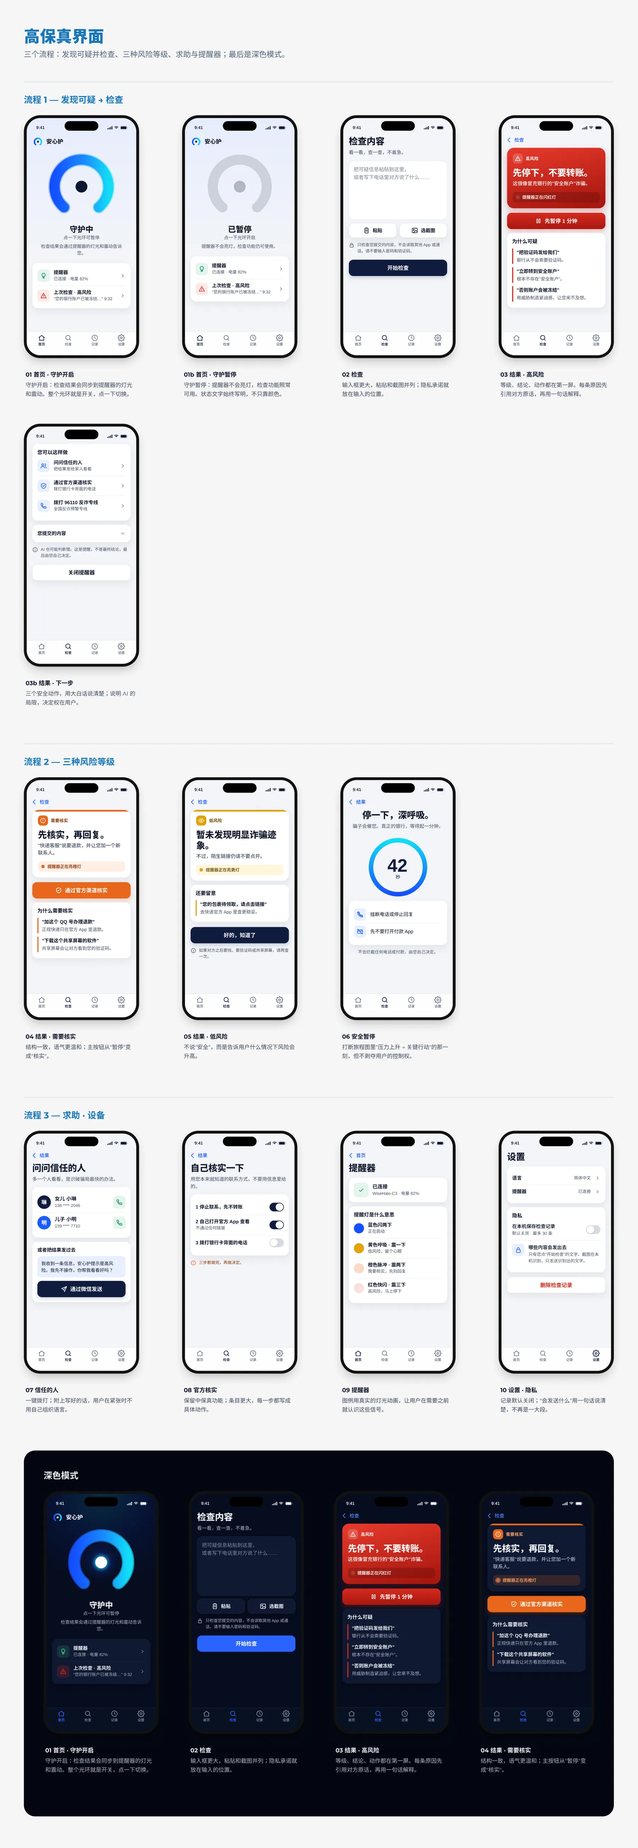
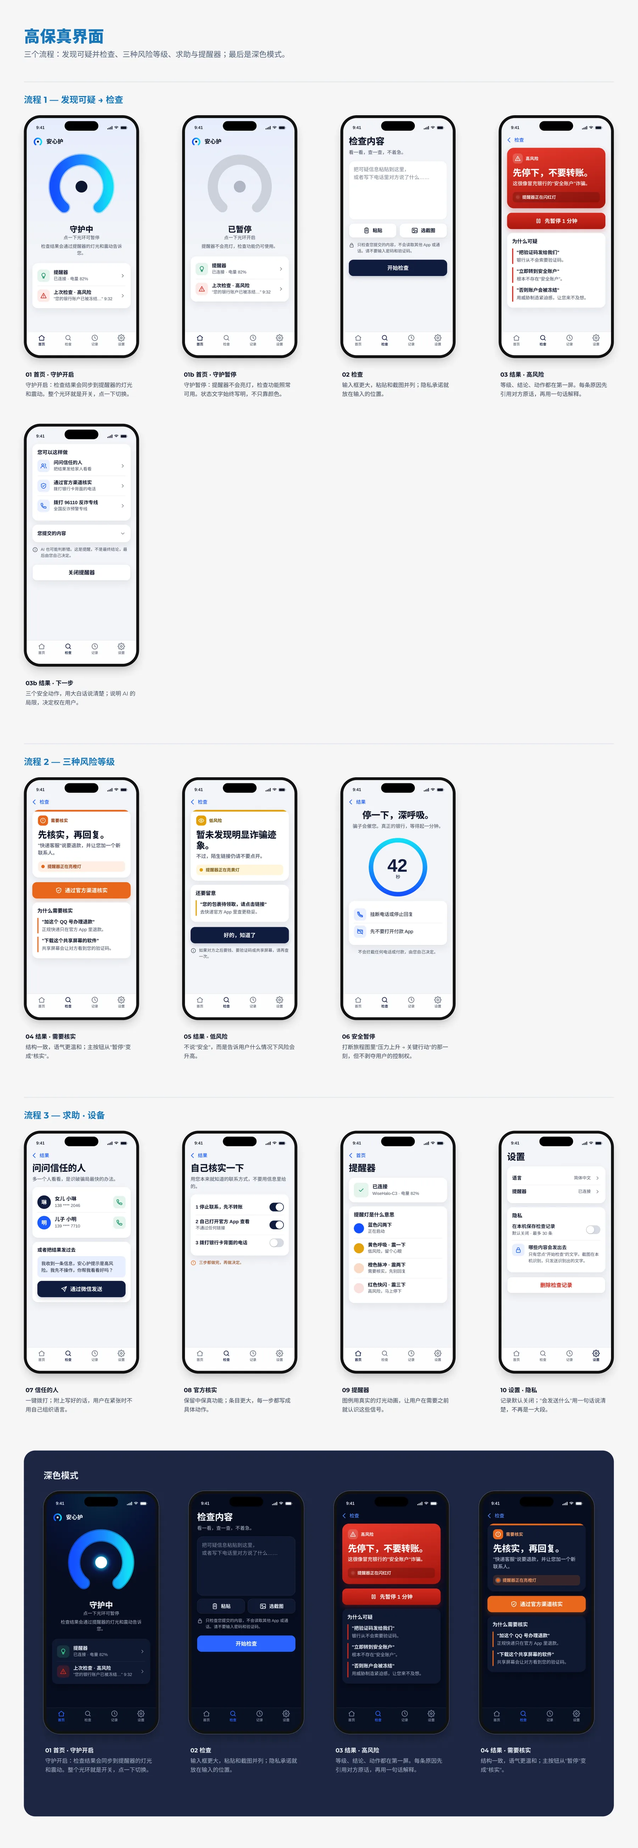
WiseHalo: lighter dark-mode panel and outlined phones in hi-fi board (figs 30/31)

Changed region(s): [[0.0311, 0.7772, 0.9644, 0.9948]]

diff --git a/works/wisehalo.html b/works/wisehalo.html
@@ -33,7 +33,7 @@ try{if(!sessionStorage.getItem('wz-loaded')&&!matchMedia('(prefers-reduced-motio
 <main class="project">
   <section class="meta"><div class="m-row"><span><span class="l-zh" lang="zh-Hans-CN">项目类型</span><span class="l-en" lang="en">Project type</span></span><span class="span2"><span class="l-zh" lang="zh-Hans-CN">AI + IOT 硕士毕业设计项目</span><span class="l-en" lang="en">AI + IoT MA thesis project</span></span></div><div class="m-row"><span><span class="l-zh" lang="zh-Hans-CN">项目名称</span><span class="l-en" lang="en">Project name</span></span><span class="span2"><span class="l-zh" lang="zh-Hans-CN">WiseHalo｜AI 防诈骗风险提示系统</span><span class="l-en" lang="en">WiseHalo — Making Hidden Scam Systems Visible</span></span></div><div class="m-row"><span><span class="l-zh" lang="zh-Hans-CN">分类</span><span class="l-en" lang="en">Category</span></span><span class="span2"><span class="tag">[<span class="l-zh" lang="zh-Hans-CN">AI</span><span class="l-en" lang="en">AI</span>]</span><span class="tag">[<span class="l-zh" lang="zh-Hans-CN">交互设计</span><span class="l-en" lang="en">Interaction design</span>]</span><span class="tag">[<span class="l-zh" lang="zh-Hans-CN">IOT</span><span class="l-en" lang="en">IoT</span>]</span><span class="tag">[<span class="l-zh" lang="zh-Hans-CN">适老化</span><span class="l-en" lang="en">Age-inclusive</span>]</span></span></div><div class="m-row"><span><span class="l-zh" lang="zh-Hans-CN">时间</span><span class="l-en" lang="en">Date</span></span><span class="span2">11.2026</span></div></section>
   <div class="p-grid">
-    <div class="p-main"><figure class="fig"><img src="../images/wisehalo/00-hero.webp?v=1794632484" width="1800" height="1012" alt=""></figure><div class="sec-head"><span>01</span><span><span class="l-zh" lang="zh-Hans-CN">问题：诈骗是一个系统</span><span class="l-en" lang="en">Problem: scams are systems</span></span><span class="sec-text"><span class="l-zh" lang="zh-Hans-CN">公开案例显示，诈骗从社交平台和日常任务开始接触用户，用虚假身份建立信任，再用紧迫感和小额回报推动用户做出高风险操作。大多数人只看到表面信息，看不到背后的运作方式，也就很难在中途停下来。</span><span class="l-en" lang="en">Public cases show scams reach people through everyday channels, build trust with fake identities, then use urgency and small rewards to push risky actions. Most people only see the surface message, not the system behind it — so it is hard to stop midway.</span></span></div><div class="figs figs-stack"><figure class="fig zoom"><img class="l-zh" src="../images/wisehalo/01-zh.webp?v=1794736027" width="1800" height="1013" alt="" loading="lazy" decoding="async"><img class="l-en" src="../images/wisehalo/01.webp?v=1794632484" width="1800" height="1012" alt="" loading="lazy" decoding="async"></figure><figure class="fig zoom"><img class="l-zh" src="../images/wisehalo/02-zh.webp?v=1794736027" width="1800" height="1013" alt="" loading="lazy" decoding="async"><img class="l-en" src="../images/wisehalo/02.webp?v=1794632484" width="1800" height="1012" alt="" loading="lazy" decoding="async"></figure></div><div class="sec-head"><span>02</span><span><span class="l-zh" lang="zh-Hans-CN">研究：20 个公开案例 + 32 份问卷</span><span class="l-en" lang="en">Research: 20 public cases + 32 surveys</span></span><span class="sec-text"><span class="l-zh" lang="zh-Hans-CN">我分析了 20 个中国 50–65 岁受害者的公开案例，并对 32 人做了线上问卷（其中 50 岁以上 15 人）。大多数人在可疑互动中会提前退出，但最需要的不是更多警告，而是“为什么可疑”的具体解释、可以马上执行的下一步，以及对保护工具本身的信任。</span><span class="l-en" lang="en">I analysed 20 public cases of victims aged 50–65 in China and ran an online survey with 32 people (15 aged 50+). Most respondents already exit suspicious interactions early — what they need is not more warnings, but a specific explanation of why something is suspicious, an actionable next step, and trust in the protective tool itself.</span></span></div><div class="figs figs-stack"><figure class="fig zoom"><img class="l-zh" src="../images/wisehalo/03-zh.webp?v=1794736027" width="1800" height="1013" alt="" loading="lazy" decoding="async"><img class="l-en" src="../images/wisehalo/03.webp?v=1794632484" width="1800" height="1012" alt="" loading="lazy" decoding="async"></figure><figure class="fig zoom"><img class="l-zh" src="../images/wisehalo/04-zh.webp?v=1794736027" width="1800" height="1013" alt="" loading="lazy" decoding="async"><img class="l-en" src="../images/wisehalo/04.webp?v=1794632484" width="1800" height="1012" alt="" loading="lazy" decoding="async"></figure><figure class="fig zoom"><img class="l-zh" src="../images/wisehalo/05-zh.webp?v=1794736027" width="1800" height="1013" alt="" loading="lazy" decoding="async"><img class="l-en" src="../images/wisehalo/05.webp?v=1794632485" width="1800" height="1012" alt="" loading="lazy" decoding="async"></figure><figure class="fig zoom"><img class="l-zh" src="../images/wisehalo/06-zh.webp?v=1794736027" width="1800" height="1013" alt="" loading="lazy" decoding="async"><img class="l-en" src="../images/wisehalo/06.webp?v=1794632485" width="1800" height="1012" alt="" loading="lazy" decoding="async"></figure><figure class="fig zoom"><img class="l-zh" src="../images/wisehalo/39-zh.webp?v=1794736027" width="1800" height="1013" alt="" loading="lazy" decoding="async"><img class="l-en" src="../images/wisehalo/39.webp?v=1794732906" width="1800" height="1013" alt="" loading="lazy" decoding="async"></figure><figure class="fig zoom"><img class="l-zh" src="../images/wisehalo/07-zh.webp?v=1794736027" width="1800" height="1013" alt="" loading="lazy" decoding="async"><img class="l-en" src="../images/wisehalo/07.webp?v=1794632485" width="1800" height="1012" alt="" loading="lazy" decoding="async"></figure><figure class="fig zoom"><img class="l-zh" src="../images/wisehalo/40-zh.webp?v=1794736027" width="1800" height="1013" alt="" loading="lazy" decoding="async"><img class="l-en" src="../images/wisehalo/40.webp?v=1794732906" width="1800" height="1013" alt="" loading="lazy" decoding="async"></figure><figure class="fig zoom"><img class="l-zh" src="../images/wisehalo/38-zh.webp?v=1794736027" width="1800" height="1013" alt="User persona: Mei, 58" loading="lazy" decoding="async"><img class="l-en" src="../images/wisehalo/38.webp?v=1794732387" width="1800" height="1013" alt="User persona: Mei, 58" loading="lazy" decoding="async"></figure><figure class="fig zoom"><img class="l-zh" src="../images/wisehalo/08-zh.webp?v=1794736027" width="1800" height="1013" alt="" loading="lazy" decoding="async"><img class="l-en" src="../images/wisehalo/08.webp?v=1794732387" width="1800" height="1013" alt="" loading="lazy" decoding="async"></figure></div><div class="sec-head"><span>03</span><span><span class="l-zh" lang="zh-Hans-CN">策略：风险越高，反馈越强</span><span class="l-en" lang="en">Strategy: stronger risk, stronger response</span></span><span class="sec-text"><span class="l-zh" lang="zh-Hans-CN">设备的反馈随风险逐级升级：低风险用黄色呼吸灯提示“核实来源”；中风险用橙色双脉冲并解释诈骗手法、建议联系信任的人；高风险用红色快闪和重复震动，配合手机全屏提示暂停付款。始终由用户自己决定下一步。</span><span class="l-en" lang="en">Feedback escalates with risk: low risk shows a yellow breathing light and suggests checking the source; medium risk adds an orange double pulse, explains the tactic and suggests contacting someone trusted; high risk uses a fast red flash and repeated vibration with a full-screen prompt to pause the payment. The user always makes the final call.</span></span></div><div class="figs figs-stack"><figure class="fig zoom"><img class="l-zh" src="../images/wisehalo/09-zh.webp?v=1794736027" width="1800" height="1013" alt="" loading="lazy" decoding="async"><img class="l-en" src="../images/wisehalo/09.webp?v=1794732387" width="1800" height="1013" alt="" loading="lazy" decoding="async"></figure><figure class="fig zoom"><img class="l-zh" src="../images/wisehalo/10-zh.webp?v=1794736027" width="1800" height="1013" alt="" loading="lazy" decoding="async"><img class="l-en" src="../images/wisehalo/10.webp?v=1794732906" width="1800" height="1013" alt="" loading="lazy" decoding="async"></figure><figure class="fig zoom"><img class="l-zh" src="../images/wisehalo/11-zh.webp?v=1794736027" width="1800" height="1013" alt="" loading="lazy" decoding="async"><img class="l-en" src="../images/wisehalo/11.webp?v=1794632486" width="1800" height="1012" alt="" loading="lazy" decoding="async"></figure></div><div class="sec-head"><span>04</span><span><span class="l-zh" lang="zh-Hans-CN">系统与信息架构</span><span class="l-en" lang="en">System &amp; information architecture</span></span><span class="sec-text"><span class="l-zh" lang="zh-Hans-CN">手机端负责接收可疑内容、调用 AI 分析并解释风险；设备端把风险等级转化为灯光与震动。信息架构围绕“检查 → 理解 → 选择安全行动”三步组织。</span><span class="l-en" lang="en">The phone receives suspicious content, calls the AI analysis and explains the risk; the device translates the risk level into light and vibration. The information architecture follows three steps: check → understand → choose a safe action.</span></span></div><div class="figs figs-stack"><figure class="fig zoom"><img class="l-zh" src="../images/wisehalo/14-zh.webp?v=1794736027" width="1800" height="1013" alt="" loading="lazy" decoding="async"><img class="l-en" src="../images/wisehalo/14.webp?v=1794732387" width="1800" height="1013" alt="" loading="lazy" decoding="async"></figure><figure class="fig zoom"><img class="l-zh" src="../images/wisehalo/15-zh.webp?v=1794784326" width="1800" height="1013" alt="" loading="lazy" decoding="async"><img class="l-en" src="../images/wisehalo/15.webp?v=1794784326" width="1800" height="1013" alt="" loading="lazy" decoding="async"></figure><figure class="fig zoom"><img class="l-zh" src="../images/wisehalo/16-zh.webp?v=1794784326" width="1800" height="1013" alt="" loading="lazy" decoding="async"><img class="l-en" src="../images/wisehalo/16.webp?v=1794784326" width="1800" height="1013" alt="" loading="lazy" decoding="async"></figure></div><div class="sec-head"><span>05</span><span><span class="l-zh" lang="zh-Hans-CN">界面：从中保真到高保真</span><span class="l-en" lang="en">Interface: from mid-fi to hi-fi</span></span><span class="sec-text"><span class="l-zh" lang="zh-Hans-CN">高保真把首页做成一个由 App 图标生成的“光环开关”：打开是提醒器守护中，关掉是只用手机提醒。主题色取自图标的藏青与蓝青，鲜艳的颜色只留给光环和风险等级；结果页按“风险等级 → 一句话指令 → 一个主按钮 → 为什么可疑 → 求助”排列，并提供深色模式。下方按设计推进的顺序排列：低保真 → 中保真 → App 图标 → 设计规范（色彩、风险等级、字号与图标、组件、光环开关与结果页）→ 全部高保真界面与深色模式 → 引导页 → v2 新增功能（手机与提醒器分工、闸门熄灯、通话快速自查、链接与电话检查、屏幕共享警告等）。</span><span class="l-en" lang="en">The hi-fi turns Home into a “halo switch” drawn from the app icon: on means the reminder is guarding, off means phone-only alerts. Colours come from the icon’s navy and blue-cyan, with bright colour reserved for the halo and risk levels. Results follow risk level → one instruction → one primary action → why it’s suspicious → get help, with a dark mode. Below, in the order the design developed: low-fi → mid-fi → app icon → design system (colour, risk levels, type &amp; icons, components, halo switch &amp; result order) → every hi-fi screen plus dark mode → onboarding → v2 additions (phone vs reminder roles, the release gate, call self-check, link &amp; number checks, screen-sharing warnings and more).</span></span></div><div class="figs figs-stack"><figure class="fig zoom"><img class="l-zh" src="../images/wisehalo/17-zh.webp?v=1794736027" width="1800" height="1013" alt="" loading="lazy" decoding="async"><img class="l-en" src="../images/wisehalo/17.webp?v=1794634616" width="1800" height="1012" alt="" loading="lazy" decoding="async"></figure><figure class="fig zoom"><img class="l-zh" src="../images/wisehalo/18-zh.webp?v=1794736027" width="1800" height="1013" alt="" loading="lazy" decoding="async"><img class="l-en" src="../images/wisehalo/18.webp?v=1794634616" width="1800" height="1012" alt="" loading="lazy" decoding="async"></figure><figure class="fig zoom"><img class="l-zh" src="../images/wisehalo/19-zh.webp?v=1794736027" width="1800" height="1013" alt="" loading="lazy" decoding="async"><img class="l-en" src="../images/wisehalo/19.webp?v=1794634617" width="1800" height="1012" alt="" loading="lazy" decoding="async"></figure><figure class="fig zoom"><img class="l-zh" src="../images/wisehalo/20.webp?v=1794819768" width="1800" height="1013" alt="" loading="lazy" decoding="async"><img class="l-en" src="../images/wisehalo/21.webp?v=1794819768" width="1800" height="1013" alt="" loading="lazy" decoding="async"></figure><figure class="fig zoom"><img class="l-zh" src="../images/wisehalo/22.webp?v=1794819768" width="1800" height="1013" alt="" loading="lazy" decoding="async"><img class="l-en" src="../images/wisehalo/23.webp?v=1794819768" width="1800" height="1013" alt="" loading="lazy" decoding="async"></figure><figure class="fig zoom"><img class="l-zh" src="../images/wisehalo/24.webp?v=1794819768" width="1800" height="1013" alt="" loading="lazy" decoding="async"><img class="l-en" src="../images/wisehalo/25.webp?v=1794819768" width="1800" height="1013" alt="" loading="lazy" decoding="async"></figure><figure class="fig zoom"><img class="l-zh" src="../images/wisehalo/26.webp?v=1794819768" width="1800" height="1013" alt="" loading="lazy" decoding="async"><img class="l-en" src="../images/wisehalo/27.webp?v=1794819768" width="1800" height="1013" alt="" loading="lazy" decoding="async"></figure><figure class="fig zoom"><img class="l-zh" src="../images/wisehalo/28.webp?v=1794819768" width="1800" height="1013" alt="" loading="lazy" decoding="async"><img class="l-en" src="../images/wisehalo/29.webp?v=1794819768" width="1800" height="1013" alt="" loading="lazy" decoding="async"></figure><figure class="fig zoom"><img class="l-zh" src="../images/wisehalo/30.webp?v=1794819768" width="1800" height="5211" alt="" loading="lazy" decoding="async"><img class="l-en" src="../images/wisehalo/31.webp?v=1794819768" width="1800" height="5385" alt="" loading="lazy" decoding="async"></figure><figure class="fig zoom"><img class="l-zh" src="../images/wisehalo/42-zh.webp?v=1794819768" width="1800" height="1104" alt="" loading="lazy" decoding="async"><img class="l-en" src="../images/wisehalo/42.webp?v=1794819768" width="1800" height="1104" alt="" loading="lazy" decoding="async"></figure><figure class="fig zoom"><img class="l-zh" src="../images/wisehalo/43-zh.webp?v=1794819768" width="1800" height="6053" alt="" loading="lazy" decoding="async"><img class="l-en" src="../images/wisehalo/43.webp?v=1794819768" width="1800" height="6074" alt="" loading="lazy" decoding="async"></figure></div><div class="sec-head"><span>06</span><span><span class="l-zh" lang="zh-Hans-CN">可交互原型：试一试</span><span class="l-en" lang="en">Interactive prototype: try it</span></span><span class="sec-text"><span class="l-zh" lang="zh-Hans-CN">打开后先走一遍 4 步引导页（欢迎、选择语言、隐私承诺、连接提醒器，可在设置中重新查看），之后就是远程可用性测试使用的原型：点“粘贴”或选一条示例，再点“开始检查”，可以看到风险结果、先暂停 1 分钟、三步核实、发给家人，以及不用打字的“通话快速自查”。首页的光环可以在“只用手机提醒”和“手机 + 提醒器”之间切换——这正是测试中对比的两组。原型用固定规则代替 AI，提醒器状态为模拟。</span><span class="l-en" lang="en">It opens with the 4-step onboarding (welcome, language, privacy promise, connect the reminder — replay it from Settings), then the prototype used for remote usability testing: tap Paste or pick an example, then Check, to see the risk result, the 1-minute pause, three-step verification, sending it to family, and the no-typing call self-check. The halo on Home switches between phone-only alerts and phone + reminder — the two conditions compared in testing. The prototype uses fixed rules instead of AI, and the reminder is simulated.</span></span></div><div class="figs figs-stack"><figure class="fig embed phone stage st-halo"><div class="stage-bg" aria-hidden="true"><svg class="stage-halo" viewBox="0 0 236 236" preserveAspectRatio="xMidYMid meet"><defs><linearGradient id="st-halo-g" x1="0" x2="1"><stop offset="0" stop-color="#1450FF"/><stop offset=".55" stop-color="#1A8BFF"/><stop offset="1" stop-color="#12DCF6"/></linearGradient><filter id="st-halo-blur" x="-30%" y="-30%" width="160%" height="160%"><feGaussianBlur stdDeviation="9"/></filter></defs><path class="glow" d="M56.3 191.5A96 96 0 1 1 179.7 191.5"/><path class="echo" d="M38.3 213.0A124 124 0 1 1 197.7 213.0"/><path class="echo e2" d="M21.6 232.9A150 150 0 1 1 214.4 232.9"/><path class="ring" d="M56.3 191.5A96 96 0 1 1 179.7 191.5"/><circle class="led low" cx="34.9" cy="70" r="2.6"/><circle class="led mid" cx="118" cy="22" r="2.6"/><circle class="led high" cx="201.1" cy="70" r="2.6"/></svg><div class="stage-label"><b><span class="l-zh" lang="zh-Hans-CN">可试玩 · 安心护</span><span class="l-en" lang="en">Live demo · WiseHalo</span></b><span><span class="l-zh" lang="zh-Hans-CN">演示模式 · 固定规则代替 AI</span><span class="l-en" lang="en">Demo mode · fixed rules instead of AI</span></span></div><div class="stage-co stage-co1"><span class="n">01</span><b><span class="l-zh" lang="zh-Hans-CN">粘贴 → 检查</span><span class="l-en" lang="en">Paste → Check</span></b><span class="d"><span class="l-zh" lang="zh-Hans-CN">选一条示例，看风险结果</span><span class="l-en" lang="en">Pick an example, see the risk</span></span><i></i></div><div class="stage-co stage-co2"><span class="n">02</span><b><span class="l-zh" lang="zh-Hans-CN">先停一下</span><span class="l-en" lang="en">Pause first</span></b><span class="d"><span class="l-zh" lang="zh-Hans-CN">高风险时暂停 1 分钟，再核实</span><span class="l-en" lang="en">High risk: a 1-minute pause, then verify</span></span><i></i></div><div class="stage-co stage-co3"><span class="n">03</span><b><span class="l-zh" lang="zh-Hans-CN">光环开关</span><span class="l-en" lang="en">Halo switch</span></b><span class="d"><span class="l-zh" lang="zh-Hans-CN">只用手机 ↔ 手机 + 提醒器</span><span class="l-en" lang="en">Phone only ↔ phone + reminder</span></span><i></i></div><div class="stage-co stage-co4"><span class="n">04</span><b><span class="l-zh" lang="zh-Hans-CN">通话快速自查</span><span class="l-en" lang="en">Call self-check</span></b><span class="d"><span class="l-zh" lang="zh-Hans-CN">不用打字，回答 5 个问题</span><span class="l-en" lang="en">No typing, five questions</span></span><i></i></div></div><iframe data-lang-src="../wisehalo-test/?demo=1&amp;frame=1&amp;ob=5&amp;lang={lang}&amp;theme={theme}" title="WiseHalo interactive prototype" loading="lazy" allow="microphone; camera; autoplay; clipboard-write"></iframe><figcaption><a class="u" href="../wisehalo-test/?demo=1&amp;ob=5" target="_blank" rel="noopener"><span class="l-zh" lang="zh-Hans-CN">在新窗口打开，或用手机打开 ↗</span><span class="l-en" lang="en">Open in a new tab or on your phone ↗</span></a></figcaption></figure></div><div class="sec-head"><span>07</span><span><span class="l-zh" lang="zh-Hans-CN">硬件原型：灯光与震动语言</span><span class="l-en" lang="en">Hardware: a language of light and vibration</span></span><span class="sec-text"><span class="l-zh" lang="zh-Hans-CN">用 ESP32-C3、RGB 灯环和震动马达搭建原型：先在 Wokwi 中仿真三种风险等级的反馈逻辑，再在面包板上逐项测试灯光和震动，最后让 App 的 AI 分析结果驱动设备反馈。</span><span class="l-en" lang="en">Built with an ESP32-C3, an RGB LED ring and a vibration motor: the feedback logic for three risk levels was first simulated in Wokwi, then tested on a breadboard, and finally driven by the app&#x27;s AI analysis result.</span></span></div><div class="figs figs-stack"><figure class="fig zoom"><img class="l-zh" src="../images/wisehalo/41-zh.webp?v=1794780180" width="1800" height="1013" alt="" loading="lazy" decoding="async"><img class="l-en" src="../images/wisehalo/41.webp?v=1794780180" width="1800" height="1013" alt="" loading="lazy" decoding="async"></figure><figure class="fig zoom"><img class="l-zh" src="../images/wisehalo/32-zh.webp?v=1794736027" width="1800" height="1013" alt="" loading="lazy" decoding="async"><img class="l-en" src="../images/wisehalo/32.webp?v=1794634622" width="1800" height="1012" alt="" loading="lazy" decoding="async"></figure><figure class="fig zoom"><img class="l-zh" src="../images/wisehalo/33-zh.webp?v=1794736027" width="1800" height="1013" alt="" loading="lazy" decoding="async"><img class="l-en" src="../images/wisehalo/33.webp?v=1794634622" width="1800" height="1012" alt="" loading="lazy" decoding="async"></figure><figure class="fig zoom"><img class="l-zh" src="../images/wisehalo/34-zh.webp?v=1794736027" width="1800" height="1013" alt="" loading="lazy" decoding="async"><img class="l-en" src="../images/wisehalo/34.webp?v=1794732387" width="1800" height="1013" alt="" loading="lazy" decoding="async"></figure><figure class="fig zoom"><img class="l-zh" src="../images/wisehalo/35-zh.webp?v=1794736027" width="1800" height="1013" alt="" loading="lazy" decoding="async"><img class="l-en" src="../images/wisehalo/35.webp?v=1794634622" width="1800" height="1012" alt="" loading="lazy" decoding="async"></figure><figure class="fig zoom"><img class="l-zh" src="../images/wisehalo/36-zh.webp?v=1794736027" width="1800" height="1013" alt="" loading="lazy" decoding="async"><img class="l-en" src="../images/wisehalo/36.webp?v=1794634623" width="1800" height="1012" alt="" loading="lazy" decoding="async"></figure><figure class="fig zoom"><img class="l-zh" src="../images/wisehalo/37-zh.webp?v=1794736027" width="1800" height="1013" alt="" loading="lazy" decoding="async"><img class="l-en" src="../images/wisehalo/37.webp?v=1794733097" width="1800" height="1013" alt="" loading="lazy" decoding="async"></figure></div><div class="sec-head"><span>08</span><span><span class="l-zh" lang="zh-Hans-CN">现状与下一步</span><span class="l-en" lang="en">Status &amp; next steps</span></span><span class="sec-text"><span class="l-zh" lang="zh-Hans-CN">目前已实现：高保真 iOS App（SwiftUI）——提交文字或截图 → AI 分析 → 风险等级、解释与建议 → 提醒器灯光与震动；手机负责“提醒一次”，桌上的提醒器“一直提醒，直到您暂停或核实”。另有通话快速自查、读给我听、屏幕共享警告和 App 内字号。下一步：对 5 位 50 岁以上长辈做远程可用性测试（含“只有手机 / 手机 + 提醒器”对比）和专家评估。</span><span class="l-en" lang="en">Working today: a hi-fi iOS app (SwiftUI) — submit text or a screenshot → AI analysis → risk level, explanation and advice → light and vibration on the reminder. The phone alerts once; the desk reminder keeps alerting until you pause or verify. Also: a call self-check, read-aloud, a screen-sharing warning and in-app text size. Next: remote usability testing with five adults aged 50+ (including phone-only vs phone + reminder) and an expert evaluation.</span></span></div></div>
+    <div class="p-main"><figure class="fig"><img src="../images/wisehalo/00-hero.webp?v=1794632484" width="1800" height="1012" alt=""></figure><div class="sec-head"><span>01</span><span><span class="l-zh" lang="zh-Hans-CN">问题：诈骗是一个系统</span><span class="l-en" lang="en">Problem: scams are systems</span></span><span class="sec-text"><span class="l-zh" lang="zh-Hans-CN">公开案例显示，诈骗从社交平台和日常任务开始接触用户，用虚假身份建立信任，再用紧迫感和小额回报推动用户做出高风险操作。大多数人只看到表面信息，看不到背后的运作方式，也就很难在中途停下来。</span><span class="l-en" lang="en">Public cases show scams reach people through everyday channels, build trust with fake identities, then use urgency and small rewards to push risky actions. Most people only see the surface message, not the system behind it — so it is hard to stop midway.</span></span></div><div class="figs figs-stack"><figure class="fig zoom"><img class="l-zh" src="../images/wisehalo/01-zh.webp?v=1794736027" width="1800" height="1013" alt="" loading="lazy" decoding="async"><img class="l-en" src="../images/wisehalo/01.webp?v=1794632484" width="1800" height="1012" alt="" loading="lazy" decoding="async"></figure><figure class="fig zoom"><img class="l-zh" src="../images/wisehalo/02-zh.webp?v=1794736027" width="1800" height="1013" alt="" loading="lazy" decoding="async"><img class="l-en" src="../images/wisehalo/02.webp?v=1794632484" width="1800" height="1012" alt="" loading="lazy" decoding="async"></figure></div><div class="sec-head"><span>02</span><span><span class="l-zh" lang="zh-Hans-CN">研究：20 个公开案例 + 32 份问卷</span><span class="l-en" lang="en">Research: 20 public cases + 32 surveys</span></span><span class="sec-text"><span class="l-zh" lang="zh-Hans-CN">我分析了 20 个中国 50–65 岁受害者的公开案例，并对 32 人做了线上问卷（其中 50 岁以上 15 人）。大多数人在可疑互动中会提前退出，但最需要的不是更多警告，而是“为什么可疑”的具体解释、可以马上执行的下一步，以及对保护工具本身的信任。</span><span class="l-en" lang="en">I analysed 20 public cases of victims aged 50–65 in China and ran an online survey with 32 people (15 aged 50+). Most respondents already exit suspicious interactions early — what they need is not more warnings, but a specific explanation of why something is suspicious, an actionable next step, and trust in the protective tool itself.</span></span></div><div class="figs figs-stack"><figure class="fig zoom"><img class="l-zh" src="../images/wisehalo/03-zh.webp?v=1794736027" width="1800" height="1013" alt="" loading="lazy" decoding="async"><img class="l-en" src="../images/wisehalo/03.webp?v=1794632484" width="1800" height="1012" alt="" loading="lazy" decoding="async"></figure><figure class="fig zoom"><img class="l-zh" src="../images/wisehalo/04-zh.webp?v=1794736027" width="1800" height="1013" alt="" loading="lazy" decoding="async"><img class="l-en" src="../images/wisehalo/04.webp?v=1794632484" width="1800" height="1012" alt="" loading="lazy" decoding="async"></figure><figure class="fig zoom"><img class="l-zh" src="../images/wisehalo/05-zh.webp?v=1794736027" width="1800" height="1013" alt="" loading="lazy" decoding="async"><img class="l-en" src="../images/wisehalo/05.webp?v=1794632485" width="1800" height="1012" alt="" loading="lazy" decoding="async"></figure><figure class="fig zoom"><img class="l-zh" src="../images/wisehalo/06-zh.webp?v=1794736027" width="1800" height="1013" alt="" loading="lazy" decoding="async"><img class="l-en" src="../images/wisehalo/06.webp?v=1794632485" width="1800" height="1012" alt="" loading="lazy" decoding="async"></figure><figure class="fig zoom"><img class="l-zh" src="../images/wisehalo/39-zh.webp?v=1794736027" width="1800" height="1013" alt="" loading="lazy" decoding="async"><img class="l-en" src="../images/wisehalo/39.webp?v=1794732906" width="1800" height="1013" alt="" loading="lazy" decoding="async"></figure><figure class="fig zoom"><img class="l-zh" src="../images/wisehalo/07-zh.webp?v=1794736027" width="1800" height="1013" alt="" loading="lazy" decoding="async"><img class="l-en" src="../images/wisehalo/07.webp?v=1794632485" width="1800" height="1012" alt="" loading="lazy" decoding="async"></figure><figure class="fig zoom"><img class="l-zh" src="../images/wisehalo/40-zh.webp?v=1794736027" width="1800" height="1013" alt="" loading="lazy" decoding="async"><img class="l-en" src="../images/wisehalo/40.webp?v=1794732906" width="1800" height="1013" alt="" loading="lazy" decoding="async"></figure><figure class="fig zoom"><img class="l-zh" src="../images/wisehalo/38-zh.webp?v=1794736027" width="1800" height="1013" alt="User persona: Mei, 58" loading="lazy" decoding="async"><img class="l-en" src="../images/wisehalo/38.webp?v=1794732387" width="1800" height="1013" alt="User persona: Mei, 58" loading="lazy" decoding="async"></figure><figure class="fig zoom"><img class="l-zh" src="../images/wisehalo/08-zh.webp?v=1794736027" width="1800" height="1013" alt="" loading="lazy" decoding="async"><img class="l-en" src="../images/wisehalo/08.webp?v=1794732387" width="1800" height="1013" alt="" loading="lazy" decoding="async"></figure></div><div class="sec-head"><span>03</span><span><span class="l-zh" lang="zh-Hans-CN">策略：风险越高，反馈越强</span><span class="l-en" lang="en">Strategy: stronger risk, stronger response</span></span><span class="sec-text"><span class="l-zh" lang="zh-Hans-CN">设备的反馈随风险逐级升级：低风险用黄色呼吸灯提示“核实来源”；中风险用橙色双脉冲并解释诈骗手法、建议联系信任的人；高风险用红色快闪和重复震动，配合手机全屏提示暂停付款。始终由用户自己决定下一步。</span><span class="l-en" lang="en">Feedback escalates with risk: low risk shows a yellow breathing light and suggests checking the source; medium risk adds an orange double pulse, explains the tactic and suggests contacting someone trusted; high risk uses a fast red flash and repeated vibration with a full-screen prompt to pause the payment. The user always makes the final call.</span></span></div><div class="figs figs-stack"><figure class="fig zoom"><img class="l-zh" src="../images/wisehalo/09-zh.webp?v=1794736027" width="1800" height="1013" alt="" loading="lazy" decoding="async"><img class="l-en" src="../images/wisehalo/09.webp?v=1794732387" width="1800" height="1013" alt="" loading="lazy" decoding="async"></figure><figure class="fig zoom"><img class="l-zh" src="../images/wisehalo/10-zh.webp?v=1794736027" width="1800" height="1013" alt="" loading="lazy" decoding="async"><img class="l-en" src="../images/wisehalo/10.webp?v=1794732906" width="1800" height="1013" alt="" loading="lazy" decoding="async"></figure><figure class="fig zoom"><img class="l-zh" src="../images/wisehalo/11-zh.webp?v=1794736027" width="1800" height="1013" alt="" loading="lazy" decoding="async"><img class="l-en" src="../images/wisehalo/11.webp?v=1794632486" width="1800" height="1012" alt="" loading="lazy" decoding="async"></figure></div><div class="sec-head"><span>04</span><span><span class="l-zh" lang="zh-Hans-CN">系统与信息架构</span><span class="l-en" lang="en">System &amp; information architecture</span></span><span class="sec-text"><span class="l-zh" lang="zh-Hans-CN">手机端负责接收可疑内容、调用 AI 分析并解释风险；设备端把风险等级转化为灯光与震动。信息架构围绕“检查 → 理解 → 选择安全行动”三步组织。</span><span class="l-en" lang="en">The phone receives suspicious content, calls the AI analysis and explains the risk; the device translates the risk level into light and vibration. The information architecture follows three steps: check → understand → choose a safe action.</span></span></div><div class="figs figs-stack"><figure class="fig zoom"><img class="l-zh" src="../images/wisehalo/14-zh.webp?v=1794736027" width="1800" height="1013" alt="" loading="lazy" decoding="async"><img class="l-en" src="../images/wisehalo/14.webp?v=1794732387" width="1800" height="1013" alt="" loading="lazy" decoding="async"></figure><figure class="fig zoom"><img class="l-zh" src="../images/wisehalo/15-zh.webp?v=1794784326" width="1800" height="1013" alt="" loading="lazy" decoding="async"><img class="l-en" src="../images/wisehalo/15.webp?v=1794784326" width="1800" height="1013" alt="" loading="lazy" decoding="async"></figure><figure class="fig zoom"><img class="l-zh" src="../images/wisehalo/16-zh.webp?v=1794784326" width="1800" height="1013" alt="" loading="lazy" decoding="async"><img class="l-en" src="../images/wisehalo/16.webp?v=1794784326" width="1800" height="1013" alt="" loading="lazy" decoding="async"></figure></div><div class="sec-head"><span>05</span><span><span class="l-zh" lang="zh-Hans-CN">界面：从中保真到高保真</span><span class="l-en" lang="en">Interface: from mid-fi to hi-fi</span></span><span class="sec-text"><span class="l-zh" lang="zh-Hans-CN">高保真把首页做成一个由 App 图标生成的“光环开关”：打开是提醒器守护中，关掉是只用手机提醒。主题色取自图标的藏青与蓝青，鲜艳的颜色只留给光环和风险等级；结果页按“风险等级 → 一句话指令 → 一个主按钮 → 为什么可疑 → 求助”排列，并提供深色模式。下方按设计推进的顺序排列：低保真 → 中保真 → App 图标 → 设计规范（色彩、风险等级、字号与图标、组件、光环开关与结果页）→ 全部高保真界面与深色模式 → 引导页 → v2 新增功能（手机与提醒器分工、闸门熄灯、通话快速自查、链接与电话检查、屏幕共享警告等）。</span><span class="l-en" lang="en">The hi-fi turns Home into a “halo switch” drawn from the app icon: on means the reminder is guarding, off means phone-only alerts. Colours come from the icon’s navy and blue-cyan, with bright colour reserved for the halo and risk levels. Results follow risk level → one instruction → one primary action → why it’s suspicious → get help, with a dark mode. Below, in the order the design developed: low-fi → mid-fi → app icon → design system (colour, risk levels, type &amp; icons, components, halo switch &amp; result order) → every hi-fi screen plus dark mode → onboarding → v2 additions (phone vs reminder roles, the release gate, call self-check, link &amp; number checks, screen-sharing warnings and more).</span></span></div><div class="figs figs-stack"><figure class="fig zoom"><img class="l-zh" src="../images/wisehalo/17-zh.webp?v=1794736027" width="1800" height="1013" alt="" loading="lazy" decoding="async"><img class="l-en" src="../images/wisehalo/17.webp?v=1794634616" width="1800" height="1012" alt="" loading="lazy" decoding="async"></figure><figure class="fig zoom"><img class="l-zh" src="../images/wisehalo/18-zh.webp?v=1794736027" width="1800" height="1013" alt="" loading="lazy" decoding="async"><img class="l-en" src="../images/wisehalo/18.webp?v=1794634616" width="1800" height="1012" alt="" loading="lazy" decoding="async"></figure><figure class="fig zoom"><img class="l-zh" src="../images/wisehalo/19-zh.webp?v=1794736027" width="1800" height="1013" alt="" loading="lazy" decoding="async"><img class="l-en" src="../images/wisehalo/19.webp?v=1794634617" width="1800" height="1012" alt="" loading="lazy" decoding="async"></figure><figure class="fig zoom"><img class="l-zh" src="../images/wisehalo/20.webp?v=1794819768" width="1800" height="1013" alt="" loading="lazy" decoding="async"><img class="l-en" src="../images/wisehalo/21.webp?v=1794819768" width="1800" height="1013" alt="" loading="lazy" decoding="async"></figure><figure class="fig zoom"><img class="l-zh" src="../images/wisehalo/22.webp?v=1794819768" width="1800" height="1013" alt="" loading="lazy" decoding="async"><img class="l-en" src="../images/wisehalo/23.webp?v=1794819768" width="1800" height="1013" alt="" loading="lazy" decoding="async"></figure><figure class="fig zoom"><img class="l-zh" src="../images/wisehalo/24.webp?v=1794819768" width="1800" height="1013" alt="" loading="lazy" decoding="async"><img class="l-en" src="../images/wisehalo/25.webp?v=1794819768" width="1800" height="1013" alt="" loading="lazy" decoding="async"></figure><figure class="fig zoom"><img class="l-zh" src="../images/wisehalo/26.webp?v=1794819768" width="1800" height="1013" alt="" loading="lazy" decoding="async"><img class="l-en" src="../images/wisehalo/27.webp?v=1794819768" width="1800" height="1013" alt="" loading="lazy" decoding="async"></figure><figure class="fig zoom"><img class="l-zh" src="../images/wisehalo/28.webp?v=1794819768" width="1800" height="1013" alt="" loading="lazy" decoding="async"><img class="l-en" src="../images/wisehalo/29.webp?v=1794819768" width="1800" height="1013" alt="" loading="lazy" decoding="async"></figure><figure class="fig zoom"><img class="l-zh" src="../images/wisehalo/30.webp?v=1794820316" width="1800" height="5211" alt="" loading="lazy" decoding="async"><img class="l-en" src="../images/wisehalo/31.webp?v=1794820316" width="1800" height="5385" alt="" loading="lazy" decoding="async"></figure><figure class="fig zoom"><img class="l-zh" src="../images/wisehalo/42-zh.webp?v=1794819768" width="1800" height="1104" alt="" loading="lazy" decoding="async"><img class="l-en" src="../images/wisehalo/42.webp?v=1794819768" width="1800" height="1104" alt="" loading="lazy" decoding="async"></figure><figure class="fig zoom"><img class="l-zh" src="../images/wisehalo/43-zh.webp?v=1794819768" width="1800" height="6053" alt="" loading="lazy" decoding="async"><img class="l-en" src="../images/wisehalo/43.webp?v=1794819768" width="1800" height="6074" alt="" loading="lazy" decoding="async"></figure></div><div class="sec-head"><span>06</span><span><span class="l-zh" lang="zh-Hans-CN">可交互原型：试一试</span><span class="l-en" lang="en">Interactive prototype: try it</span></span><span class="sec-text"><span class="l-zh" lang="zh-Hans-CN">打开后先走一遍 4 步引导页（欢迎、选择语言、隐私承诺、连接提醒器，可在设置中重新查看），之后就是远程可用性测试使用的原型：点“粘贴”或选一条示例，再点“开始检查”，可以看到风险结果、先暂停 1 分钟、三步核实、发给家人，以及不用打字的“通话快速自查”。首页的光环可以在“只用手机提醒”和“手机 + 提醒器”之间切换——这正是测试中对比的两组。原型用固定规则代替 AI，提醒器状态为模拟。</span><span class="l-en" lang="en">It opens with the 4-step onboarding (welcome, language, privacy promise, connect the reminder — replay it from Settings), then the prototype used for remote usability testing: tap Paste or pick an example, then Check, to see the risk result, the 1-minute pause, three-step verification, sending it to family, and the no-typing call self-check. The halo on Home switches between phone-only alerts and phone + reminder — the two conditions compared in testing. The prototype uses fixed rules instead of AI, and the reminder is simulated.</span></span></div><div class="figs figs-stack"><figure class="fig embed phone stage st-halo"><div class="stage-bg" aria-hidden="true"><svg class="stage-halo" viewBox="0 0 236 236" preserveAspectRatio="xMidYMid meet"><defs><linearGradient id="st-halo-g" x1="0" x2="1"><stop offset="0" stop-color="#1450FF"/><stop offset=".55" stop-color="#1A8BFF"/><stop offset="1" stop-color="#12DCF6"/></linearGradient><filter id="st-halo-blur" x="-30%" y="-30%" width="160%" height="160%"><feGaussianBlur stdDeviation="9"/></filter></defs><path class="glow" d="M56.3 191.5A96 96 0 1 1 179.7 191.5"/><path class="echo" d="M38.3 213.0A124 124 0 1 1 197.7 213.0"/><path class="echo e2" d="M21.6 232.9A150 150 0 1 1 214.4 232.9"/><path class="ring" d="M56.3 191.5A96 96 0 1 1 179.7 191.5"/><circle class="led low" cx="34.9" cy="70" r="2.6"/><circle class="led mid" cx="118" cy="22" r="2.6"/><circle class="led high" cx="201.1" cy="70" r="2.6"/></svg><div class="stage-label"><b><span class="l-zh" lang="zh-Hans-CN">可试玩 · 安心护</span><span class="l-en" lang="en">Live demo · WiseHalo</span></b><span><span class="l-zh" lang="zh-Hans-CN">演示模式 · 固定规则代替 AI</span><span class="l-en" lang="en">Demo mode · fixed rules instead of AI</span></span></div><div class="stage-co stage-co1"><span class="n">01</span><b><span class="l-zh" lang="zh-Hans-CN">粘贴 → 检查</span><span class="l-en" lang="en">Paste → Check</span></b><span class="d"><span class="l-zh" lang="zh-Hans-CN">选一条示例，看风险结果</span><span class="l-en" lang="en">Pick an example, see the risk</span></span><i></i></div><div class="stage-co stage-co2"><span class="n">02</span><b><span class="l-zh" lang="zh-Hans-CN">先停一下</span><span class="l-en" lang="en">Pause first</span></b><span class="d"><span class="l-zh" lang="zh-Hans-CN">高风险时暂停 1 分钟，再核实</span><span class="l-en" lang="en">High risk: a 1-minute pause, then verify</span></span><i></i></div><div class="stage-co stage-co3"><span class="n">03</span><b><span class="l-zh" lang="zh-Hans-CN">光环开关</span><span class="l-en" lang="en">Halo switch</span></b><span class="d"><span class="l-zh" lang="zh-Hans-CN">只用手机 ↔ 手机 + 提醒器</span><span class="l-en" lang="en">Phone only ↔ phone + reminder</span></span><i></i></div><div class="stage-co stage-co4"><span class="n">04</span><b><span class="l-zh" lang="zh-Hans-CN">通话快速自查</span><span class="l-en" lang="en">Call self-check</span></b><span class="d"><span class="l-zh" lang="zh-Hans-CN">不用打字，回答 5 个问题</span><span class="l-en" lang="en">No typing, five questions</span></span><i></i></div></div><iframe data-lang-src="../wisehalo-test/?demo=1&amp;frame=1&amp;ob=5&amp;lang={lang}&amp;theme={theme}" title="WiseHalo interactive prototype" loading="lazy" allow="microphone; camera; autoplay; clipboard-write"></iframe><figcaption><a class="u" href="../wisehalo-test/?demo=1&amp;ob=5" target="_blank" rel="noopener"><span class="l-zh" lang="zh-Hans-CN">在新窗口打开，或用手机打开 ↗</span><span class="l-en" lang="en">Open in a new tab or on your phone ↗</span></a></figcaption></figure></div><div class="sec-head"><span>07</span><span><span class="l-zh" lang="zh-Hans-CN">硬件原型：灯光与震动语言</span><span class="l-en" lang="en">Hardware: a language of light and vibration</span></span><span class="sec-text"><span class="l-zh" lang="zh-Hans-CN">用 ESP32-C3、RGB 灯环和震动马达搭建原型：先在 Wokwi 中仿真三种风险等级的反馈逻辑，再在面包板上逐项测试灯光和震动，最后让 App 的 AI 分析结果驱动设备反馈。</span><span class="l-en" lang="en">Built with an ESP32-C3, an RGB LED ring and a vibration motor: the feedback logic for three risk levels was first simulated in Wokwi, then tested on a breadboard, and finally driven by the app&#x27;s AI analysis result.</span></span></div><div class="figs figs-stack"><figure class="fig zoom"><img class="l-zh" src="../images/wisehalo/41-zh.webp?v=1794780180" width="1800" height="1013" alt="" loading="lazy" decoding="async"><img class="l-en" src="../images/wisehalo/41.webp?v=1794780180" width="1800" height="1013" alt="" loading="lazy" decoding="async"></figure><figure class="fig zoom"><img class="l-zh" src="../images/wisehalo/32-zh.webp?v=1794736027" width="1800" height="1013" alt="" loading="lazy" decoding="async"><img class="l-en" src="../images/wisehalo/32.webp?v=1794634622" width="1800" height="1012" alt="" loading="lazy" decoding="async"></figure><figure class="fig zoom"><img class="l-zh" src="../images/wisehalo/33-zh.webp?v=1794736027" width="1800" height="1013" alt="" loading="lazy" decoding="async"><img class="l-en" src="../images/wisehalo/33.webp?v=1794634622" width="1800" height="1012" alt="" loading="lazy" decoding="async"></figure><figure class="fig zoom"><img class="l-zh" src="../images/wisehalo/34-zh.webp?v=1794736027" width="1800" height="1013" alt="" loading="lazy" decoding="async"><img class="l-en" src="../images/wisehalo/34.webp?v=1794732387" width="1800" height="1013" alt="" loading="lazy" decoding="async"></figure><figure class="fig zoom"><img class="l-zh" src="../images/wisehalo/35-zh.webp?v=1794736027" width="1800" height="1013" alt="" loading="lazy" decoding="async"><img class="l-en" src="../images/wisehalo/35.webp?v=1794634622" width="1800" height="1012" alt="" loading="lazy" decoding="async"></figure><figure class="fig zoom"><img class="l-zh" src="../images/wisehalo/36-zh.webp?v=1794736027" width="1800" height="1013" alt="" loading="lazy" decoding="async"><img class="l-en" src="../images/wisehalo/36.webp?v=1794634623" width="1800" height="1012" alt="" loading="lazy" decoding="async"></figure><figure class="fig zoom"><img class="l-zh" src="../images/wisehalo/37-zh.webp?v=1794736027" width="1800" height="1013" alt="" loading="lazy" decoding="async"><img class="l-en" src="../images/wisehalo/37.webp?v=1794733097" width="1800" height="1013" alt="" loading="lazy" decoding="async"></figure></div><div class="sec-head"><span>08</span><span><span class="l-zh" lang="zh-Hans-CN">现状与下一步</span><span class="l-en" lang="en">Status &amp; next steps</span></span><span class="sec-text"><span class="l-zh" lang="zh-Hans-CN">目前已实现：高保真 iOS App（SwiftUI）——提交文字或截图 → AI 分析 → 风险等级、解释与建议 → 提醒器灯光与震动；手机负责“提醒一次”，桌上的提醒器“一直提醒，直到您暂停或核实”。另有通话快速自查、读给我听、屏幕共享警告和 App 内字号。下一步：对 5 位 50 岁以上长辈做远程可用性测试（含“只有手机 / 手机 + 提醒器”对比）和专家评估。</span><span class="l-en" lang="en">Working today: a hi-fi iOS app (SwiftUI) — submit text or a screenshot → AI analysis → risk level, explanation and advice → light and vibration on the reminder. The phone alerts once; the desk reminder keeps alerting until you pause or verify. Also: a call self-check, read-aloud, a screen-sharing warning and in-app text size. Next: remote usability testing with five adults aged 50+ (including phone-only vs phone + reminder) and an expert evaluation.</span></span></div></div>
     <aside class="p-side"><div class="sticky"><p><span class="l-zh" lang="zh-Hans-CN">WISEHALO 是我的硕士毕业设计，一个结合 AI 风险分析与实体提醒设备的防诈骗体验项目。项目把可疑信息交给 AI 解释“为什么可疑”，并通过灯光与震动在关键时刻提醒用户先停下来，探索如何让隐藏在日常沟通中的诈骗系统变得可见、可理解、可应对。</span><span class="l-en" lang="en">WISEHALO is my MA thesis: an anti-scam experience combining AI risk analysis with a physical alert device. It asks AI to explain why a message is suspicious and uses light and vibration to prompt a pause at the critical moment — making the scam systems hidden in everyday communication visible, understandable and actionable.</span></p></div></aside>
   </div>
   <section class="meta p-foot"><div class="m-row"><span><span class="l-zh" lang="zh-Hans-CN">CREDITS</span><span class="l-en" lang="en">CREDITS</span></span><span class="span2"><span class="l-zh" lang="zh-Hans-CN">用户研究｜AI 功能设计｜交互设计｜界面设计｜硬件原型</span><span class="l-en" lang="en">User research | AI feature design | Interaction design | UI | Hardware prototyping</span></span></div><div class="m-row"><span><span class="l-zh" lang="zh-Hans-CN">项目性质</span><span class="l-en" lang="en">Format</span></span><span class="span2"><span class="l-zh" lang="zh-Hans-CN">硕士毕业设计 · 个人项目</span><span class="l-en" lang="en">MA thesis · Solo project</span></span></div><div class="m-row"><span><span class="l-zh" lang="zh-Hans-CN">团队</span><span class="l-en" lang="en">Team</span></span><span class="span2"><span class="l-zh" lang="zh-Hans-CN">个人项目</span><span class="l-en" lang="en">Solo</span></span></div><div class="m-row"><span><span class="l-zh" lang="zh-Hans-CN">课程</span><span class="l-en" lang="en">Course</span></span><span class="span2">ITGM 748 · SCAD</span></div><div class="m-row"><span><span class="l-zh" lang="zh-Hans-CN">周期</span><span class="l-en" lang="en">Timeline</span></span><span class="span2">2026.09 – 2026.11</span></div><div class="m-row"><span><span class="l-zh" lang="zh-Hans-CN">工具</span><span class="l-en" lang="en">Tools</span></span><span class="span2">Figma · ESP32-C3 · Wokwi · LLM API · Rhino</span></div><div class="m-row"><span><span class="l-zh" lang="zh-Hans-CN">状态</span><span class="l-en" lang="en">Status</span></span><span class="span2"><span class="l-zh" lang="zh-Hans-CN">进行中</span><span class="l-en" lang="en">In progress</span></span></div><div class="m-row pager"><span></span><span class="span2"><a href="ai-companion-toy.html">NEXT ›</a></span></div></section>
